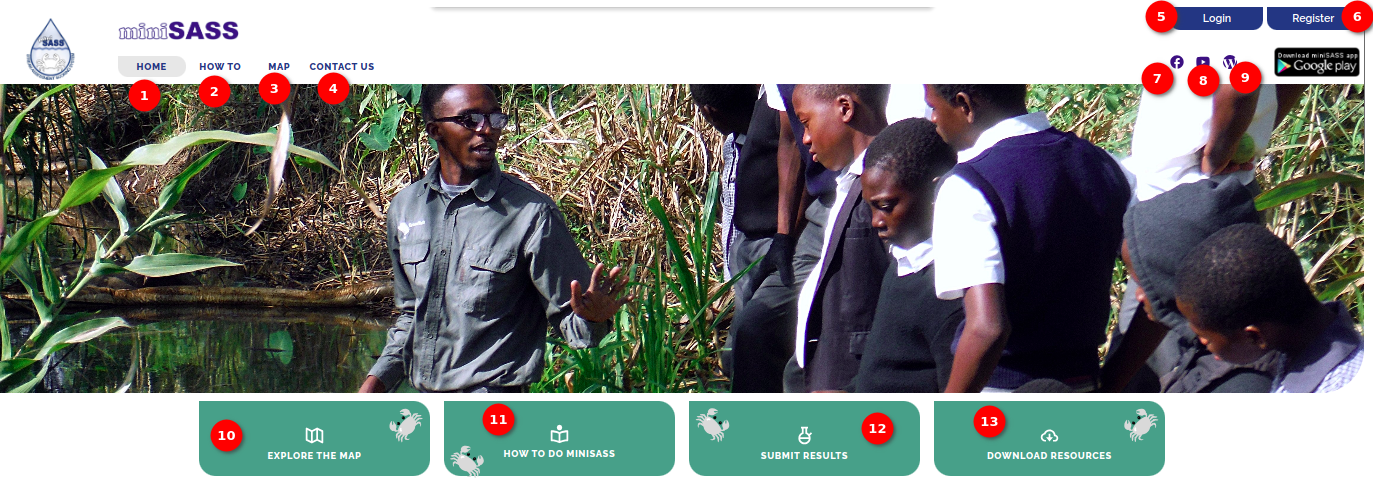
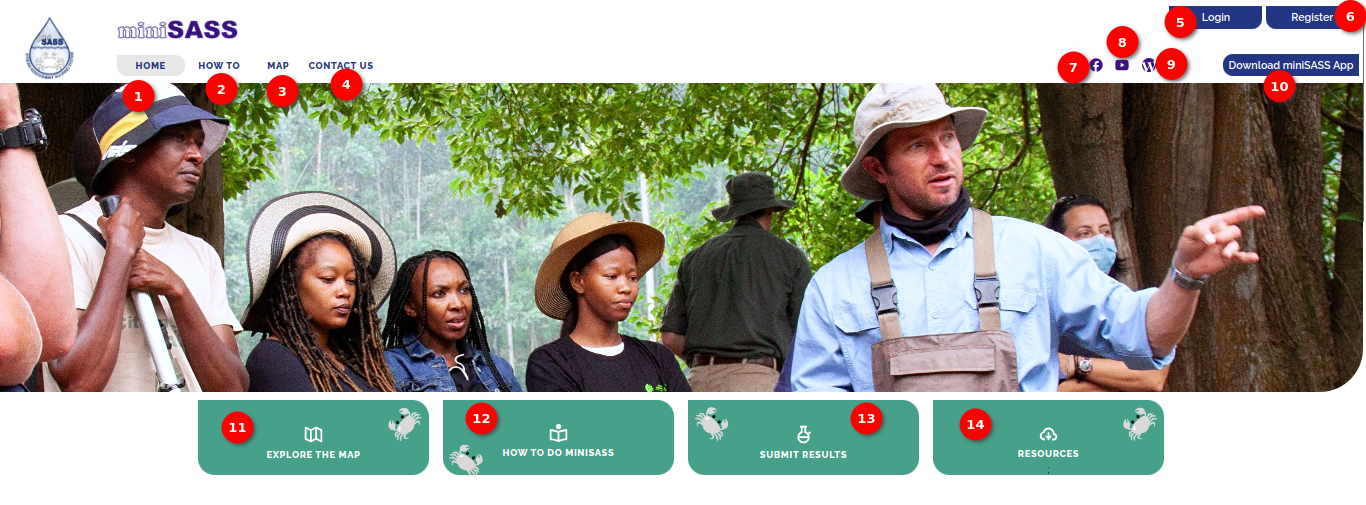
Update the landing page manual

diff --git a/docs/src/user/manual/landing-page.md b/docs/src/user/manual/landing-page.md
@@ -36,6 +36,17 @@ Ready to explore the health of the local river? Grab the collection kit, follow 
 
     ![Blog](./img/landing-page-4.png)
 
+10. **Download miniSASS App**: Click on the `Download miniSASS App` to, navigate to the download miniSASS mobile app page. After clicking on the `Download miniSASS App` button, the user will be redirected to the mobile app page.
+
+    **Mobile App:** If you are using a mobile device, you can access these functionalities through the app.
+
+    ![Mobile App](./img/landing-page-20.png)
+
+    1. **DOWNLOAD MINISASS APP HERE:** Click on the `DOWNLOAD MINISASS APP HERE` button, to download the miniSASS APK.
+
+    2. **How to Manually Install the MiniSASS App APK:** This guide provides step-by-step instructions on how to manually install the MiniSASS app on an Android device using its APK file. Users are reminded to exercise caution when installing apps from outside the Google Play Store, emphasising the importance of downloading APK files from trusted sources. The key steps include enabling installation from unknown sources in device settings, downloading the MiniSASS APK from a reputable website, locating the downloaded file in the device's storage, installing the app, and launching it. Additionally, users are advised to restore their security settings after installation and regularly check for updates manually since the app won't update automatically.
+
+
 10. **EXPLORE THE MAP**: Click on the `EXPLORE THE MAP` card section, to explore the interactive map.
 
     ![Map Page Before Login](./img/landing-page-5.png)
@@ -120,28 +131,37 @@ Ready to explore the health of the local river? Grab the collection kit, follow 
 
     ![Ground Truth](./img/landing-page-14.png)
 
-2. **International Water Management Institute (IWMI)**: IWMI is an international, research-for-development organization, with offices in 15 countries and a global network of scientists operating in more than 55 countries. For over three decades, our research results have led to changes in water management that have contributed to social and economic development.
+2. **United Nations Children's Fund (UNICEF)**: UNICEF works in over 190 countries and territories to save children's lives, defend their rights, and help them fulfill their potential, from early childhood through adolescence. And we never give up.
+
+    ![United Nations Children's Fund (UNICEF)](./img/landing-page-18.png)
+
+3. **CGIAR**: CGIAR is a global research partnership for a food-secure future dedicated to transforming food, land, and water systems in a climate crisis.CGIAR is the world’s largest global agricultural innovation network.
+    - We provide evidence to policymakers, innovation to partners, and new tools to harness the economic, environmental and nutritional power of agriculture.
+
+    ![CGIAR](./img/landing-page-17.png)
+
+4. **International Water Management Institute (IWMI)**: IWMI is an international, research-for-development organization, with offices in 15 countries and a global network of scientists operating in more than 55 countries. For over three decades, our research results have led to changes in water management that have contributed to social and economic development.
 
     - A global network for water research that focuses on issues related to sustainable use of water resources.
     - IWMI’s mission is a water-secure world.
 
     ![International Water Management Institute](./img/landing-page-15.png)
 
+5. **Water Research Commission:** The WRC was established in terms of the Water Research Act (Act No 34 of 1971), following a period of serious water shortage. It was deemed to be of national importance to generate new knowledge and to promote the country’s water research purposefully, owing to the view held that water would be one of South Africa’s most limiting factors in the 21st century. In 1971 when the WRC was founded, water research and development (R&D) in South Africa was limited to a few institutions and the funding level inadequate. There was no research coordination and an apparent neglect of some key research fields. In addition, there was little strategic direction or leadership that would provide for the identification of priority areas or appropriate technology transfer. It was to address these issues, that the WRC was established.
 
-3. **Amazon Web Services (AWS)**: Amazon Web Services (AWS) is the world’s most comprehensive and broadly adopted cloud, offering over 200 fully featured services from data centers globally. Millions of customers—including the fastest-growing startups, largest enterprises, and leading government agencies—are using AWS to lower costs, become more agile, and innovate faster.
-    
+    ![WRC](./how-to/img/how-to-12.png)
+
+6. **Amazon Web Services (AWS)**: Amazon Web Services (AWS) is the world’s most comprehensive and broadly adopted cloud, offering over 200 fully featured services from data centers globally. Millions of customers—including the fastest-growing startups, largest enterprises, and leading government agencies—are using AWS to lower costs, become more agile, and innovate faster.
+
     ![Amazon Web Services (AWS)](./img/landing-page-16.png)
 
+7. **WESSA (Wildlife and Environment Society of South Africa):** WESSA (the Wildlife and Environment Society of South Africa) is a South African environmental organisation that aims to initiate and support high-impact environmental and conservation projects to promote participation in caring for the Earth. For over 90 years we have proactively engaged with the challenges and opportunities presented by our country’s unique natural heritage and the social and economic systems that depend on it.
 
-4. **CGIAR**: CGIAR is a global research partnership for a food-secure future dedicated to transforming food, land, and water systems in a climate crisis.CGIAR is the world’s largest global agricultural innovation network.
-    - We provide evidence to policymakers, innovation to partners, and new tools to harness the economic, environmental and nutritional power of agriculture.
+    ![WESSA!](./how-to/img/how-to-13.png)
 
-    ![CGIAR](./img/landing-page-17.png)
+8. **Kartoza:** Make geospatial data and technology work for you by partnering with us for training, development and maintenance of GIS systems. Kartoza is a South Africa-based Free and Open Source GIS (FOSSGIS) service provider. We use GIS software to solve complex location-related problems for individuals, businesses and governments around the world. Our team develops software using FOSSGIS to give you the freedom to share and modify your GIS as your needs grow and change.
 
-
-5. **United Nations Children's Fund (UNICEF)**: UNICEF works in over 190 countries and territories to save children's lives, defend their rights, and help them fulfill their potential, from early childhood through adolescence. And we never give up.
-
-    ![United Nations Children's Fund (UNICEF)](./img/landing-page-18.png)
+    ![Kartoza](./how-to/img/how-to-14.png)
 
 ## Footer Options
 
